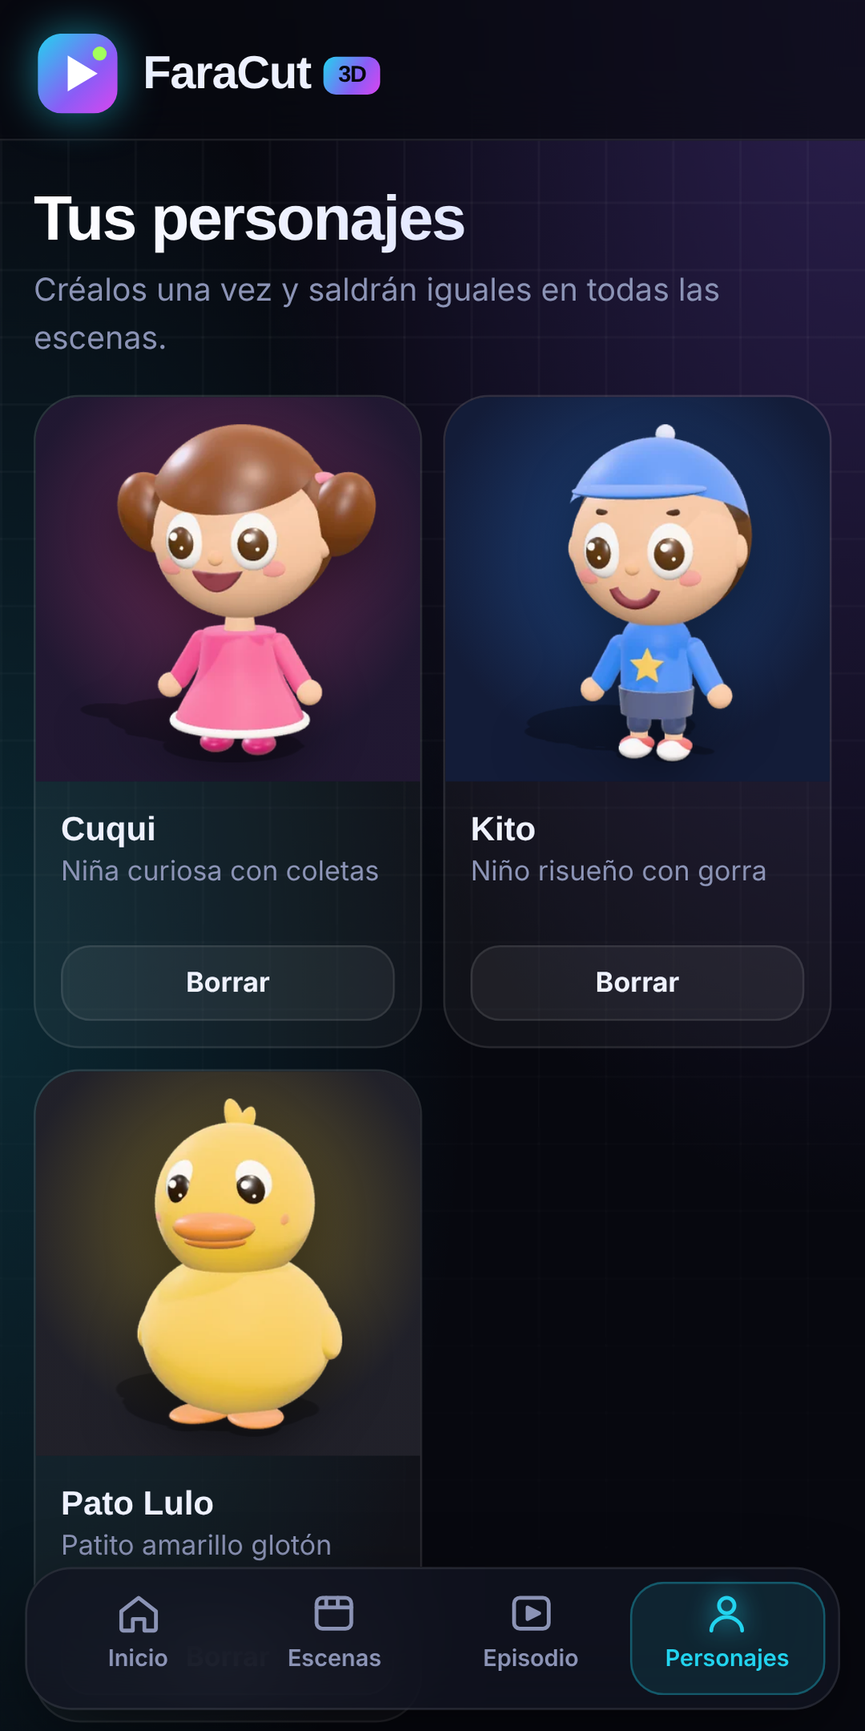
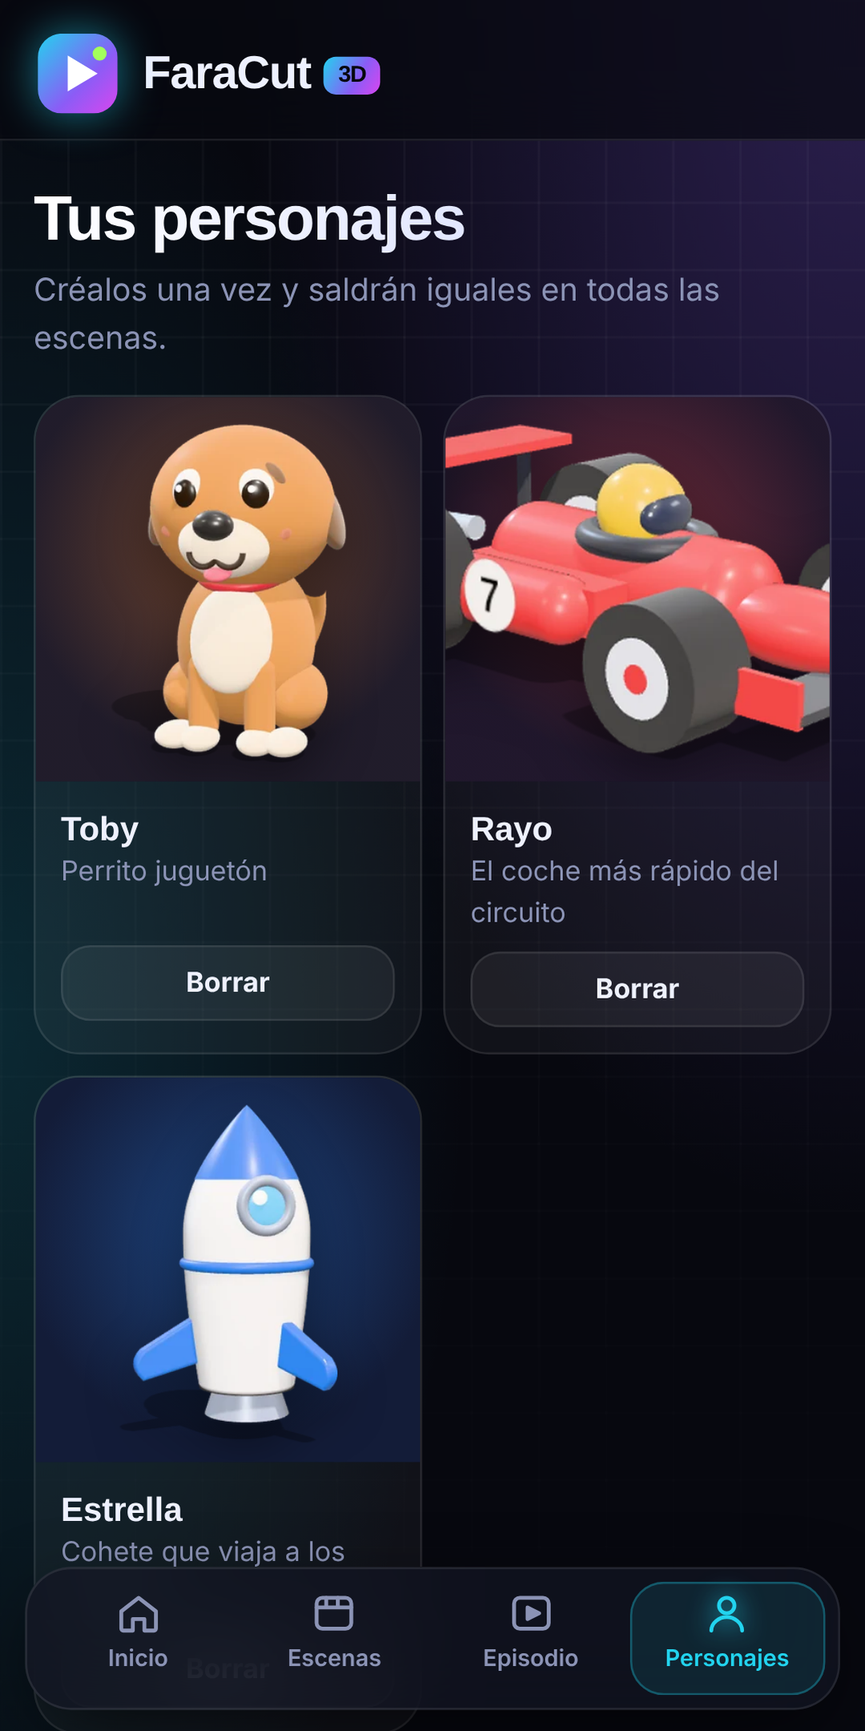
Portada profesional con cohete, coche y perrito animados; sin personajes infantiles
Claude-Session: https://claude.ai/code/session_01CcNjVHKkmXKG6oQSkoQWY8

diff --git a/web/app.js b/web/app.js
@@ -1,36 +1,37 @@
 // FaraCut 3D · crea dibujos animados con personajes 3D, escenarios 3D y exporta el vídeo.
 (() => {
-const KINDS = { nina: 'Niña', nino: 'Niño', pato: 'Patito', gato: 'Gatito' };
+const KINDS = { perro: 'Perrito', gato: 'Gatito', pato: 'Patito', cohete: 'Cohete', coche: 'Coche de carreras' };
 const COLORS = { rosa: '#ff4f9a', azul: '#2f8cff', amarillo: '#ffd21f', verde: '#3fcf6a', naranja: '#ff8c33', morado: '#9b5cff', rojo: '#ff4a4a', turquesa: '#20c9c0' };
 const CNAME = { rosa: 'Rosa', azul: 'Azul', amarillo: 'Amarillo', verde: 'Verde', naranja: 'Naranja', morado: 'Morado', rojo: 'Rojo', turquesa: 'Turquesa' };
-const PLACES = { parque: 'Parque', cocina: 'Cocina', granja: 'Granja', playa: 'Playa', bosque: 'Bosque', espacio: 'Espacio' };
-const SIZE = { nina: 1, nino: 1, pato: .86, gato: .9 };
+const PLACES = { parque: 'Parque', circuito: 'Circuito', despegue: 'Base espacial', espacio: 'Espacio', playa: 'Playa', bosque: 'Bosque', granja: 'Granja', cocina: 'Cocina' };
+const SIZE = { perro: .8, gato: .85, pato: .8, cohete: 1.15, coche: .52 };
 const BAD = ['sangre', 'arma', 'pistola', 'cuchillo', 'muerte', 'matar', 'muerto', 'desnud', 'sexo', 'droga', 'alcohol', 'violencia', 'tabaco', 'cigarr', 'apuesta'];
 const TITLE_SECS = 2.5;
 const ICONS = { home: '<path d="M3 11l9-7 9 7v9a1 1 0 0 1-1 1h-5v-6H9v6H4a1 1 0 0 1-1-1z"/>', chars: '<circle cx="12" cy="8" r="4"/><path d="M4 21c0-4 4-7 8-7s8 3 8 7"/>', scenes: '<rect x="3" y="4" width="18" height="16" rx="3"/><path d="M3 9h18M8 4v5M14 4v5"/>', play: '<rect x="3" y="4" width="18" height="16" rx="3"/><polygon points="10,9 16,12 10,15" fill="currentColor"/>' };
 const TABS = [['home', 'Inicio'], ['scenes', 'Escenas'], ['play', 'Episodio'], ['chars', 'Personajes']];
 
-const defaults = () => ({ tab: 'home', format: 'h', title: 'El pato y el flan amarillo',
-  chars: [{ id: 'c1', name: 'Cuqui', kind: 'nina', color: 'rosa', desc: 'Niña curiosa con coletas' }, { id: 'c2', name: 'Kito', kind: 'nino', color: 'azul', desc: 'Niño risueño con gorra' }, { id: 'c3', name: 'Pato Lulo', kind: 'pato', color: 'amarillo', desc: 'Patito amarillo glotón' }],
-  scenes: [{ id: 's1', text: 'Cuqui y Kito entran en la cocina y ven un flan amarillo enorme.', chars: ['c1', 'c2'], place: 'cocina', dur: 6 },
-    { id: 's2', text: '¡Cuac! Aparece Pato Lulo y quiere probar el flan.', chars: ['c1', 'c2', 'c3'], place: 'cocina', dur: 6 },
-    { id: 's3', text: 'Los tres comparten el flan y cantan en el parque.', chars: ['c1', 'c2', 'c3'], place: 'parque', dur: 6 }] });
+const defaults = () => ({ tab: 'home', format: 'h', title: 'La gran aventura de Toby',
+  chars: [{ id: 'c1', name: 'Toby', kind: 'perro', color: 'naranja', desc: 'Perrito juguetón' }, { id: 'c2', name: 'Rayo', kind: 'coche', color: 'rojo', desc: 'El coche más rápido del circuito' }, { id: 'c3', name: 'Estrella', kind: 'cohete', color: 'azul', desc: 'Cohete que viaja a los planetas' }],
+  scenes: [{ id: 's1', text: 'Toby se despierta en el parque con muchas ganas de jugar.', chars: ['c1'], place: 'parque', dur: 6 },
+    { id: 's2', text: 'Rayo, el coche de carreras, le invita a ver una carrera.', chars: ['c1', 'c2'], place: 'circuito', dur: 6 },
+    { id: 's3', text: '¡Despegue! El cohete Estrella lleva a Toby al espacio.', chars: ['c1', 'c3'], place: 'despegue', dur: 6 },
+    { id: 's4', text: 'Toby y Estrella saludan a los planetas.', chars: ['c1', 'c3'], place: 'espacio', dur: 6 }] });
 
 // ---------- datos (con migración de la versión anterior) ----------
 const near = hex => { if (COLORS[hex]) return hex; const n = parseInt(String(hex).slice(1), 16); if (isNaN(n)) return 'morado'; const r = n >> 16, g = n >> 8 & 255, b = n & 255; let best = 'morado', d = 1e9; for (const [k, h] of Object.entries(COLORS)) { const m = parseInt(h.slice(1), 16), dd = (r - (m >> 16)) ** 2 + (g - (m >> 8 & 255)) ** 2 + (b - (m & 255)) ** 2; if (dd < d) { d = dd; best = k; } } return best; };
 function load() {
   let s = null;
-  try { s = JSON.parse(localStorage.getItem('faracut') || 'null'); } catch (e) {}
-  if (!s) { try { const old = JSON.parse(localStorage.getItem('pequestudio') || 'null'); if (old && old.chars) s = old; } catch (e) {} }
+  try { s = JSON.parse(localStorage.getItem('faracut2') || 'null'); } catch (e) {}
+  try { localStorage.removeItem('pequestudio'); localStorage.removeItem('faracut'); } catch (e) {}
   if (!s || !Array.isArray(s.chars) || !Array.isArray(s.scenes)) return defaults();
-  s.chars = s.chars.filter(c => c && c.id).map(c => ({ id: c.id, name: String(c.name || 'Sin nombre').slice(0, 20), kind: KINDS[c.kind] ? c.kind : c.kind === 'animal' ? 'pato' : 'nina', color: near(c.color), desc: String(c.desc || '').slice(0, 80) }));
+  s.chars = s.chars.filter(c => c && c.id).map(c => ({ id: c.id, name: String(c.name || 'Sin nombre').slice(0, 20), kind: KINDS[c.kind] ? c.kind : 'perro', color: near(c.color), desc: String(c.desc || '').slice(0, 80) }));
   if (!s.chars.length) s.chars = defaults().chars;
   s.scenes = s.scenes.filter(x => x && x.id).map(x => ({ id: x.id, text: String(x.text || '').slice(0, 220), chars: (x.chars || []).filter(id => s.chars.some(c => c.id === id)), place: PLACES[x.place] ? x.place : 'parque', dur: [4, 6, 8, 10].includes(+x.dur) ? +x.dur : 6 }));
   s.format = s.format === 'v' ? 'v' : 'h'; s.title = String(s.title || 'Mi episodio').slice(0, 60);
   return s;
 }
 let S = load(); S.tab = 'home';
-const save = () => { try { localStorage.setItem('faracut', JSON.stringify({ format: S.format, title: S.title, chars: S.chars, scenes: S.scenes })); } catch (e) { toast('No se pudo guardar en este móvil'); } };
+const save = () => { try { localStorage.setItem('faracut2', JSON.stringify({ format: S.format, title: S.title, chars: S.chars, scenes: S.scenes })); } catch (e) { toast('No se pudo guardar en este móvil'); } };
 const esc = t => String(t).replace(/[&<>"']/g, c => ({ '&': '&amp;', '<': '&lt;', '>': '&gt;', '"': '&quot;', "'": '&#39;' }[c]));
 const $ = id => document.getElementById(id);
 const uid = () => Math.random().toString(36).slice(2, 8);
@@ -50,32 +51,40 @@ const portrait = c => `<div class="pt" style="background:radial-gradient(circle 
 
 const SYM = { chars: '<circle cx="32" cy="24" r="9"/><path d="M15 48c0-9 8-14 17-14s17 5 17 14z"/>', scenes: '<rect x="14" y="26" width="36" height="24" rx="4"/><path d="M14 18l34-6 2 9-34 6z"/>', short: '<rect x="22" y="12" width="20" height="40" rx="5"/>', long: '<rect x="12" y="18" width="40" height="26" rx="4"/><rect x="26" y="46" width="12" height="4" rx="2"/>', places: '<path d="M10 46l14-18 10 12 6-7 14 13z"/><circle cx="44" cy="20" r="6"/>', play: '<circle cx="32" cy="32" r="18"/><polygon points="28,24 41,32 28,40" fill="rgba(0,0,0,.35)"/>', shield: '<path d="M32 12l17 6v12c0 11-8 18-17 22-9-4-17-11-17-22V18z"/>', export: '<path d="M32 12v24M22 26l10 10 10-10"/><rect x="14" y="40" width="36" height="10" rx="4"/>' };
 function orb(k, a, b) { const p = 'o' + k; return `<svg viewBox="0 0 64 64" aria-hidden="true"><defs><linearGradient id="${p}" x1="0" y1="0" x2="1" y2="1"><stop offset="0" stop-color="${a}"/><stop offset="1" stop-color="${b}"/></linearGradient></defs><rect x="2" y="4" width="60" height="58" rx="18" fill="rgba(0,0,0,.35)"/><rect x="2" y="2" width="60" height="57" rx="18" fill="url(#${p})"/><ellipse cx="24" cy="13" rx="18" ry="6" fill="#fff" opacity=".3"/><g fill="#fff" stroke="#fff" stroke-width="${k === 'export' ? 5 : 0}" stroke-linecap="round" stroke-linejoin="round">${SYM[k]}</g></svg>`; }
-const FEAT = [['chars', 'Personajes 3D', 'Niñas, niños, patitos y gatitos en 8 colores', '#ff8fc8', '#d9318a', 'tab:chars'], ['places', '6 escenarios 3D', 'Parque, cocina, granja, playa, bosque y espacio', '#7ee08a', '#1f9a4a', 'tab:scenes'],
-  ['scenes', 'Escribe escenas', 'Cuenta qué pasa y quién sale', '#ffd36b', '#f08a12', 'tab:scenes'], ['play', 'Monta el episodio', 'Las escenas se animan solas', '#a3ff8f', '#2ea14c', 'tab:play'],
+const FEAT = [['chars', 'Personajes 3D', 'Perritos, gatitos, patitos, cohetes y coches de carreras', '#ff8fc8', '#d9318a', 'tab:chars'], ['places', '8 escenarios 3D', 'Parque, circuito, base espacial, espacio y más', '#7ee08a', '#1f9a4a', 'tab:scenes'],
+  ['scenes', 'Guion por escenas', 'Escribe qué pasa y quién sale', '#ffd36b', '#f08a12', 'tab:scenes'], ['play', 'Animación automática', 'Los personajes entran, botan y despegan', '#a3ff8f', '#2ea14c', 'tab:play'],
   ['short', 'Shorts 9:16', 'Vídeos verticales para cada día', '#5ef0ff', '#1592c9', 'fmt:v'], ['long', 'Vídeos 16:9', 'Episodios para YouTube', '#7aa8ff', '#3a4fe0', 'fmt:h'],
-  ['export', 'Exporta el vídeo', 'Guárdalo o súbelo a YouTube', '#c9a2ff', '#7a35e8', 'tab:play'], ['shield', 'Filtro infantil', 'Solo contenido apto para peques', '#9ff0d8', '#13a07a', 'info']];
+  ['export', 'Exporta en vídeo', 'Guárdalo o súbelo a YouTube', '#c9a2ff', '#7a35e8', 'tab:play'], ['shield', 'Filtro infantil', 'Solo contenido apto para peques', '#9ff0d8', '#13a07a', 'info']];
+
+// Escaparate animado de la portada
+const SHOW = {
+  rocket: `<div class="show sh-rocket"><img class="bg" src="img/bg-despegue-h.webp" alt=""><div class="smoke"><i></i><i></i><i></i><i></i><i></i></div><div class="rk"><img class="fl" src="img/s-llama.webp" alt=""><img class="body" src="img/s-cohete.webp" alt="Cohete despegando"></div></div>`,
+  car: `<div class="show sh-car"><img class="bg" src="img/bg-circuito-h.webp" alt=""><div class="car"><span class="lines"></span><img src="img/s-coche.webp" alt="Coche de carreras"></div></div>`,
+  swing: `<div class="show sh-swing"><img class="bg" src="img/bg-parque-h.webp" alt=""><div class="sw-box"><img src="img/s-columpio.webp" alt=""><img class="seat" src="img/s-asiento.webp" alt="Perrito en un columpio"></div></div>`,
+};
 
 const views = {
   home() {
     const first = S.scenes[0];
-    return `<div class="hero"><h2>Crea dibujos animados en 3D</h2><p class="sub">Elige personajes, escribe las escenas y exporta tu episodio para YouTube, desde el móvil.</p>
-<div class="stage h">${sceneHTML({ place: 'parque', chars: S.chars.slice(0, 3).map(c => c.id) }, 'h')}</div>
-<div class="row"><button class="btn grow" data-go="tab:scenes">✨ Crear episodio</button><button class="btn2" data-go="tab:chars">Mis personajes</button></div></div>
-<h3 class="sec">¿Qué puedes hacer?</h3>
+    return `<div class="hero"><p class="eyebrow">Estudio de animación 3D</p><h2>Dibujos animados en 3D, listos para YouTube</h2><p class="sub">Elige personajes, escribe el guion y FaraCut anima cada escena y exporta el vídeo. Todo desde el móvil.</p>
+<figure class="stage h showmain">${SHOW.rocket}<figcaption>Despegue espacial</figcaption></figure>
+<div class="showgrid"><figure class="stage h">${SHOW.car}<figcaption>Gran carrera</figcaption></figure><figure class="stage h">${SHOW.swing}<figcaption>En el columpio</figcaption></figure></div>
+<div class="row"><button class="btn grow" data-go="tab:scenes">Crear episodio</button><button class="btn2" data-go="tab:chars">Ver personajes</button></div></div>
+<h3 class="sec">Todo lo que necesitas</h3>
 <div class="tiles">${FEAT.map(f => `<button type="button" class="tile" data-go="${f[5]}">${orb(f[0], f[3], f[4])}<b>${f[1]}</b><span>${f[2]}</span></button>`).join('')}</div>
-<h3 class="sec">Así de fácil</h3>
+<h3 class="sec">Tres pasos</h3>
 <div class="steps">${[['1', 'Elige', 'tus personajes'], ['2', 'Escribe', 'las escenas'], ['3', 'Exporta', 'y publica']].map(s => `<div class="step"><span class="num">${s[0]}</span><b>${s[1]}</b><span>${s[2]}</span></div>`).join('')}</div>
-${first ? `<h3 class="sec">Sigue con tu episodio</h3><button type="button" class="card cont" data-go="tab:scenes"><div class="thumb h">${sceneHTML(first, 'h')}</div><div><b>${esc(S.title)}</b><div class="mini">${S.scenes.length} escena${S.scenes.length === 1 ? '' : 's'} · ${S.scenes.reduce((a, s) => a + s.dur, 0)} s</div></div></button>` : ''}`;
+${first ? `<h3 class="sec">Tu episodio</h3><button type="button" class="card cont" data-go="tab:scenes"><div class="thumb h">${sceneHTML(first, 'h')}</div><div><b>${esc(S.title)}</b><div class="mini">${S.scenes.length} escena${S.scenes.length === 1 ? '' : 's'} · ${S.scenes.reduce((a, s) => a + s.dur, 0)} s</div></div></button>` : ''}`;
   },
   chars() {
     return `<h2>Tus personajes</h2><p class="sub">Créalos una vez y saldrán iguales en todas las escenas.</p>
 <div class="cgrid">${S.chars.map(c => `<div class="ccard">${portrait(c)}<div class="cb"><b>${esc(c.name)}</b><div class="mini">${esc(c.desc || KINDS[c.kind] + ' ' + CNAME[c.color].toLowerCase())}</div><button class="btn2 sm" data-delc="${c.id}" aria-label="Borrar ${esc(c.name)}">Borrar</button></div></div>`).join('')}</div>
 <form class="card" id="fchar"><b>Nuevo personaje</b>
-<label for="cn">Nombre</label><input id="cn" required maxlength="20" placeholder="Ej.: Gatita Mimi">
-<label id="lk">Tipo</label><div class="kinds" role="group" aria-labelledby="lk">${Object.entries(KINDS).map(([k, l], i) => `<button type="button" data-kind="${k}" aria-pressed="${i === 0}"><img src="img/c-${k}-${['rosa', 'azul', 'amarillo', 'naranja'][i]}.webp" alt="">${l}</button>`).join('')}</div>
+<label for="cn">Nombre</label><input id="cn" required maxlength="20" placeholder="Ej.: Perrito Toby">
+<label id="lk">Tipo</label><div class="kinds" role="group" aria-labelledby="lk">${Object.entries(KINDS).map(([k, l], i) => `<button type="button" data-kind="${k}" aria-pressed="${i === 0}"><img src="img/c-${k}-${['naranja', 'morado', 'amarillo', 'azul', 'rojo'][i]}.webp" alt="">${l}</button>`).join('')}</div>
 <label id="lc">Color</label><div class="sw" role="group" aria-labelledby="lc">${Object.entries(COLORS).map(([k, h], i) => `<button type="button" data-color="${k}" aria-pressed="${i === 3}" aria-label="${CNAME[k]}" style="background:${h}"></button>`).join('')}</div>
 <div class="preview"><div id="prev"></div><div class="mini">Así será tu personaje en las escenas.</div></div>
-<label for="cd">Descripción (opcional)</label><input id="cd" maxlength="80" placeholder="Ej.: gatita dormilona que adora la leche">
+<label for="cd">Descripción (opcional)</label><input id="cd" maxlength="80" placeholder="Ej.: perrito juguetón que adora los columpios">
 <div style="height:12px"></div><button class="btn" type="submit" style="width:100%">Añadir personaje</button></form>`;
   },
   scenes() {
@@ -90,7 +99,7 @@ ${S.scenes.map((sc, i) => `<div class="card scene"><div class="thumb ${S.format}
 <div class="row" style="margin-top:8px"><button class="btn2 grow" data-see="${i}">▶ Ver</button>
 <button class="btn2 ic" data-up="${i}" aria-label="Subir escena" ${i ? '' : 'disabled'}>↑</button><button class="btn2 ic" data-dels="${sc.id}" aria-label="Borrar escena">✕</button></div></div></div>`).join('')}
 <form class="card" id="fscene"><b>Nueva escena</b>
-<label for="st">¿Qué pasa en la escena?</label><textarea id="st" required maxlength="220" placeholder="Ej.: Kito encuentra una galleta detrás del sofá"></textarea>
+<label for="st">¿Qué pasa en la escena?</label><textarea id="st" required maxlength="220" placeholder="Ej.: Toby encuentra una pelota detrás del árbol"></textarea>
 <label id="lp">Personajes</label><div class="chips" role="group" aria-labelledby="lp">${S.chars.map(c => `<button type="button" class="chip" data-pick="${c.id}" aria-pressed="false"><img src="${imgOf(c)}" alt="">${esc(c.name)}</button>`).join('')}</div>
 <label id="ll">Lugar</label><div class="places" role="group" aria-labelledby="ll">${Object.entries(PLACES).map(([k, v], j) => `<button type="button" class="place" data-place="${k}" aria-pressed="${j === 0}" style="background-image:url(${bgOf(k, 'h')})"><span>${v}</span></button>`).join('')}</div>
 <label id="ld">Duración</label><div class="seg" role="group" aria-labelledby="ld">${[4, 6, 8, 10].map(d => `<button type="button" data-dur="${d}" aria-pressed="${d === 6}">${d} s</button>`).join('')}</div>
@@ -114,14 +123,15 @@ function render() {
 }
 const go = t => { if (recording) { toast('Espera a que termine la exportación'); return; } S.tab = t; render(); window.scrollTo(0, 0); };
 const sel = a => document.querySelector(`[${a}][aria-pressed=true]`);
-function updPrev() { const p = $('prev'); if (!p) return; const k = (sel('data-kind') || { dataset: { kind: 'nina' } }).dataset.kind, c = (sel('data-color') || { dataset: { color: 'verde' } }).dataset.color; p.innerHTML = portrait({ kind: k, color: c, name: 'Vista previa' }); }
+function updPrev() { const p = $('prev'); if (!p) return; const k = (sel('data-kind') || { dataset: { kind: 'perro' } }).dataset.kind, c = (sel('data-color') || { dataset: { color: 'verde' } }).dataset.color; p.innerHTML = portrait({ kind: k, color: c, name: 'Vista previa' }); }
 
 // ---------- animación en canvas (reproducir y exportar) ----------
-const IMG = {};
+const IMG = {}, FLAME = {};
 const getImg = src => IMG[src] || (IMG[src] = new Promise(ok => { const i = new Image(); i.onload = () => ok(i); i.onerror = () => ok(null); i.src = src; }));
 async function prepare(fmt) {
   const list = [];
   for (const sc of S.scenes) { list.push(getImg(bgOf(sc.place, fmt))); sc.chars.map(charById).filter(Boolean).forEach(c => list.push(getImg(imgOf(c)))); }
+  FLAME.img = await getImg('img/s-llama.webp');
   await Promise.all(list);
   const out = [];
   for (const sc of S.scenes) out.push({ sc, bg: await getImg(bgOf(sc.place, fmt)), cs: await Promise.all(sc.chars.map(charById).filter(Boolean).map(async c => ({ c, img: await getImg(imgOf(c)) }))) });
@@ -139,8 +149,11 @@ function drawScene(ctx, W, H, item, t, fmt) {
     if (!img) return;
     const h = H * hp * SIZE[c.kind], w = img.width / img.height * h;
     const tx = W * (i + 1) / (n + 1), from = i < n / 2 ? -w : W + w, k = ease((t - i * .25) / .9);
-    const x = from + (tx - from) * k, hop = Math.abs(Math.sin((t * 2.6 + i * .7) * Math.PI)) * h * .05, sq = 1 + Math.sin((t * 5.2 + i * 1.4) * Math.PI) * .012;
-    ctx.save(); ctx.translate(x, base); ctx.scale(1 / sq, sq);
+    let x = from + (tx - from) * k, hop = Math.abs(Math.sin((t * 2.6 + i * .7) * Math.PI)) * h * .05, sq = 1 + Math.sin((t * 5.2 + i * 1.4) * Math.PI) * .012, lift = 0;
+    if (c.kind === 'coche') { x = -w + (tx + w) * ease((t - i * .25) / 1.4); hop = Math.abs(Math.sin(t * 40)) * h * .012; sq = 1; }
+    if (c.kind === 'cohete') { lift = Math.max(0, t - d * .45) ** 2 * H * .05; hop = 0; sq = 1; x = tx + (from - tx) * (1 - ease((t - i * .25) / .9)) * .0; }
+    ctx.save(); ctx.translate(x, base - lift); ctx.scale(1 / sq, sq);
+    if (c.kind === 'cohete' && FLAME.img && (lift > 0 || t > d * .3)) { const fw = w * .42, fh = fw * 2 * (.9 + Math.random() * .25); ctx.drawImage(FLAME.img, -fw / 2 - w * .02, -h * .05, fw, fh); }
     ctx.drawImage(img, -w / 2, -h - hop, w, h); ctx.restore();
   });
   // subtítulo
@@ -234,7 +247,7 @@ document.addEventListener('submit', e => {
     const name = $('cn').value.trim(); if (!name) return;
     if (unsafe(name + ' ' + $('cd').value)) { toast('Nombre o descripción no aptos para niños'); return; }
     if (S.chars.length >= 12) { toast('Puedes tener hasta 12 personajes'); return; }
-    S.chars.push({ id: 'c' + uid(), name, kind: (sel('data-kind') || { dataset: { kind: 'nina' } }).dataset.kind, color: (sel('data-color') || { dataset: { color: 'verde' } }).dataset.color, desc: $('cd').value.trim() });
+    S.chars.push({ id: 'c' + uid(), name, kind: (sel('data-kind') || { dataset: { kind: 'perro' } }).dataset.kind, color: (sel('data-color') || { dataset: { color: 'verde' } }).dataset.color, desc: $('cd').value.trim() });
     save(); render(); toast(`${name} añadido`);
   }
   if (e.target.id === 'fscene') {

diff --git a/web/index.html b/web/index.html
@@ -125,13 +125,42 @@ nav button[aria-current=page] svg{filter:drop-shadow(0 0 6px var(--cy))}
 .sw button[aria-pressed=true]{box-shadow:0 0 0 3px var(--bg),0 0 0 5px var(--cy)}
 .preview{display:grid;grid-template-columns:110px minmax(0,1fr);gap:12px;align-items:center;margin-top:12px}
 .preview .pt{border-radius:18px}
-.kinds{display:grid;grid-template-columns:repeat(4,minmax(0,1fr));gap:6px}
+.kinds{display:grid;grid-template-columns:repeat(5,minmax(0,1fr));gap:6px}
 .kinds button{display:flex;flex-direction:column;align-items:center;gap:2px;padding:6px 2px;min-height:86px;background:rgba(0,0,0,.35);border:1px solid var(--line);color:var(--mute);font-size:12px}
-.kinds img{height:52px;width:auto}
+.kinds img{height:46px;width:auto;max-width:100%;object-fit:contain}
 .kinds button[aria-pressed=true]{border-color:var(--cy);color:var(--cy);background:rgba(34,211,238,.1)}
 .place{background-size:cover;background-position:center 60%}
 .recov{position:absolute;inset:0;background:rgba(7,8,15,.75);display:grid;place-items:center;text-align:center;padding:16px;z-index:3;font-weight:700}
 .chip img{width:28px;height:28px;object-fit:contain;border-radius:50%;background:rgba(255,255,255,.08)}
+
+.eyebrow{margin:0 0 6px;font:700 12px/1 Inter,sans-serif;letter-spacing:.14em;text-transform:uppercase;color:var(--cy)}
+.hero h2{font-size:31px}
+figure.stage{margin:0 0 12px}
+figure.stage figcaption{position:absolute;left:10px;bottom:10px;z-index:3;background:rgba(7,8,15,.62);backdrop-filter:blur(8px);-webkit-backdrop-filter:blur(8px);border:1px solid var(--line);border-radius:10px;padding:4px 10px;font:700 12px Inter,sans-serif;letter-spacing:.02em}
+.showgrid{display:grid;grid-template-columns:1fr 1fr;gap:10px;margin-bottom:14px}
+.showgrid figure.stage{margin:0;border-radius:16px}.showgrid figure.stage::after{border-radius:16px}
+.show{position:absolute;inset:0;overflow:hidden}
+.show .bg{position:absolute;inset:0;width:100%;height:100%;object-fit:cover}
+.sh-rocket .rk{position:absolute;left:50%;bottom:24%;height:46%;aspect-ratio:298/458;transform:translateX(-50%);animation:liftoff 7s cubic-bezier(.55,0,.8,.4) infinite}
+.sh-rocket .rk .body{position:absolute;inset:0;width:100%;height:100%}
+.sh-rocket .rk .fl{position:absolute;left:50%;top:88%;width:46%;transform:translateX(-50%) scaleY(.2);transform-origin:top center;opacity:0;animation:flame 7s linear infinite}
+@keyframes liftoff{0%,32%{transform:translateX(-50%) translateY(0)}34%,36%{transform:translateX(-49%) translateY(-1%)}35%,37%{transform:translateX(-51%) translateY(-1%)}92%{transform:translateX(-50%) translateY(-260%);opacity:1}93%{opacity:0}100%{transform:translateX(-50%) translateY(0);opacity:0}}
+@keyframes flame{0%,22%{opacity:0;transform:translateX(-50%) scaleY(.2)}28%{opacity:1;transform:translateX(-50%) scaleY(.6)}30%,34%,38%,42%,50%,60%,70%,80%,90%{transform:translateX(-50%) scaleY(1.05)}32%,36%,40%,46%,55%,65%,75%,85%{transform:translateX(-50%) scaleY(.85)}92%{opacity:1}93%,100%{opacity:0}}
+.sh-rocket .smoke{position:absolute;left:50%;bottom:21%;width:42%;height:14%;transform:translateX(-50%)}
+.sh-rocket .smoke i{position:absolute;bottom:0;width:26%;aspect-ratio:1;border-radius:50%;background:radial-gradient(circle at 40% 35%,#fff,#e9e4f2 60%,#cfc7de);opacity:0;animation:puff 7s ease-out infinite}
+.sh-rocket .smoke i:nth-child(1){left:35%}.sh-rocket .smoke i:nth-child(2){left:10%;animation-delay:.15s}.sh-rocket .smoke i:nth-child(3){left:60%;animation-delay:.25s}.sh-rocket .smoke i:nth-child(4){left:-5%;animation-delay:.4s}.sh-rocket .smoke i:nth-child(5){left:75%;animation-delay:.5s}
+@keyframes puff{0%,26%{opacity:0;transform:scale(.3)}34%{opacity:.95;transform:scale(1)}70%{opacity:.45;transform:scale(1.5) translateY(-10%)}92%,100%{opacity:0;transform:scale(1.8) translateY(-15%)}}
+.sh-car .car{position:absolute;bottom:14%;height:30%;aspect-ratio:697/285;left:0;animation:drive 3.4s cubic-bezier(.4,.1,.6,.9) infinite}
+.sh-car .car img{position:absolute;inset:0;width:100%;height:100%;animation:rumble .12s linear infinite}
+.sh-car .lines{position:absolute;right:92%;top:20%;width:90%;height:55%;background:repeating-linear-gradient(180deg,transparent 0 14%,rgba(255,255,255,.85) 14% 18%,transparent 18% 30%);-webkit-mask:linear-gradient(90deg,transparent,#000);mask:linear-gradient(90deg,transparent,#000)}
+@keyframes drive{0%{transform:translateX(-110%)}100%{transform:translateX(calc(100cqw + 10%))}}
+@keyframes rumble{50%{transform:translateY(-1.5%)}}
+.sh-car{container-type:inline-size}
+.sh-swing .sw-box{position:absolute;left:50%;bottom:-2%;height:104%;aspect-ratio:1;transform:translateX(-50%)}
+.sh-swing .sw-box img{position:absolute;inset:0;width:100%;height:100%}
+.sh-swing .seat{transform-origin:50% 20.66%;animation:swing 2.4s ease-in-out infinite alternate}
+@keyframes swing{from{transform:rotate(-24deg)}to{transform:rotate(24deg)}}
+@media(prefers-reduced-motion:reduce){.sh-rocket .rk,.sh-rocket .fl,.sh-rocket .smoke i,.sh-car .car,.sh-car .car img,.sh-swing .seat{animation:none}.sh-rocket .smoke i{opacity:0}.sh-car .car{left:30%}}
 </style>
 </head>
 <body>
